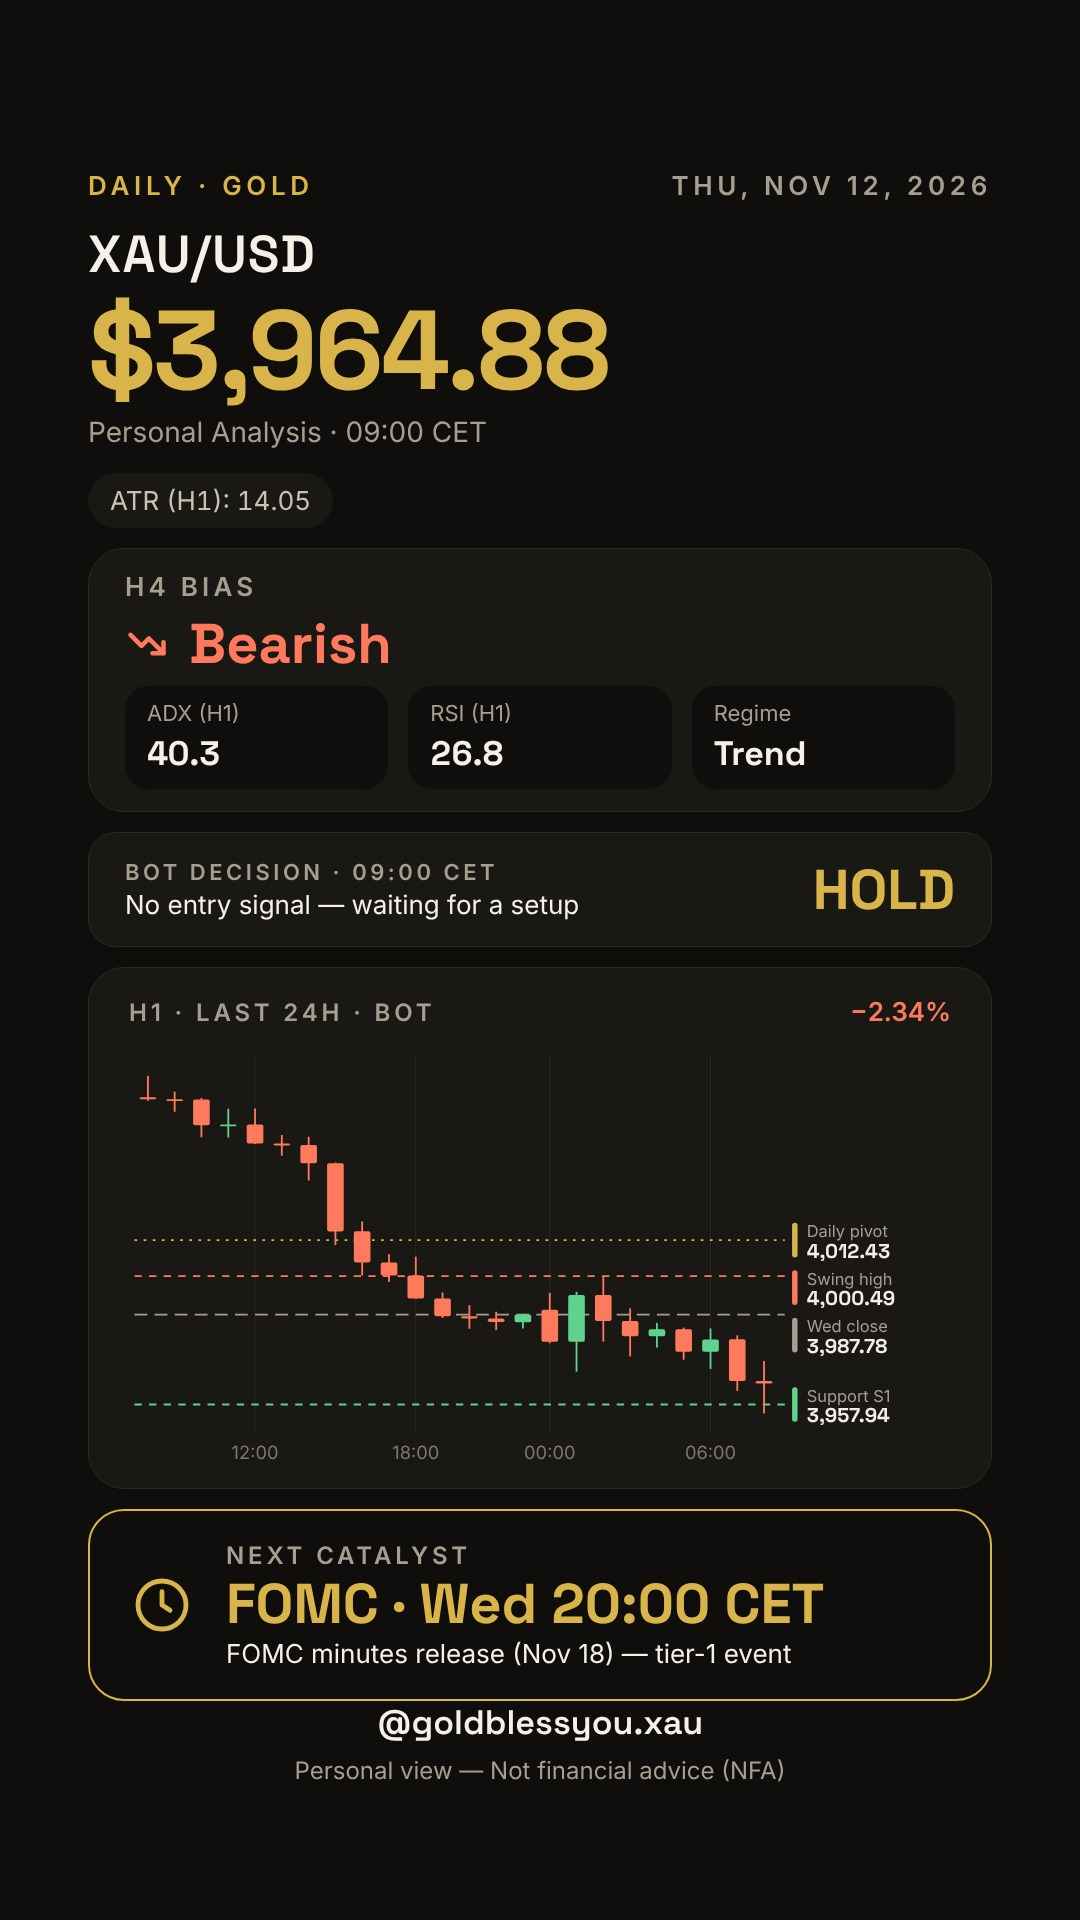
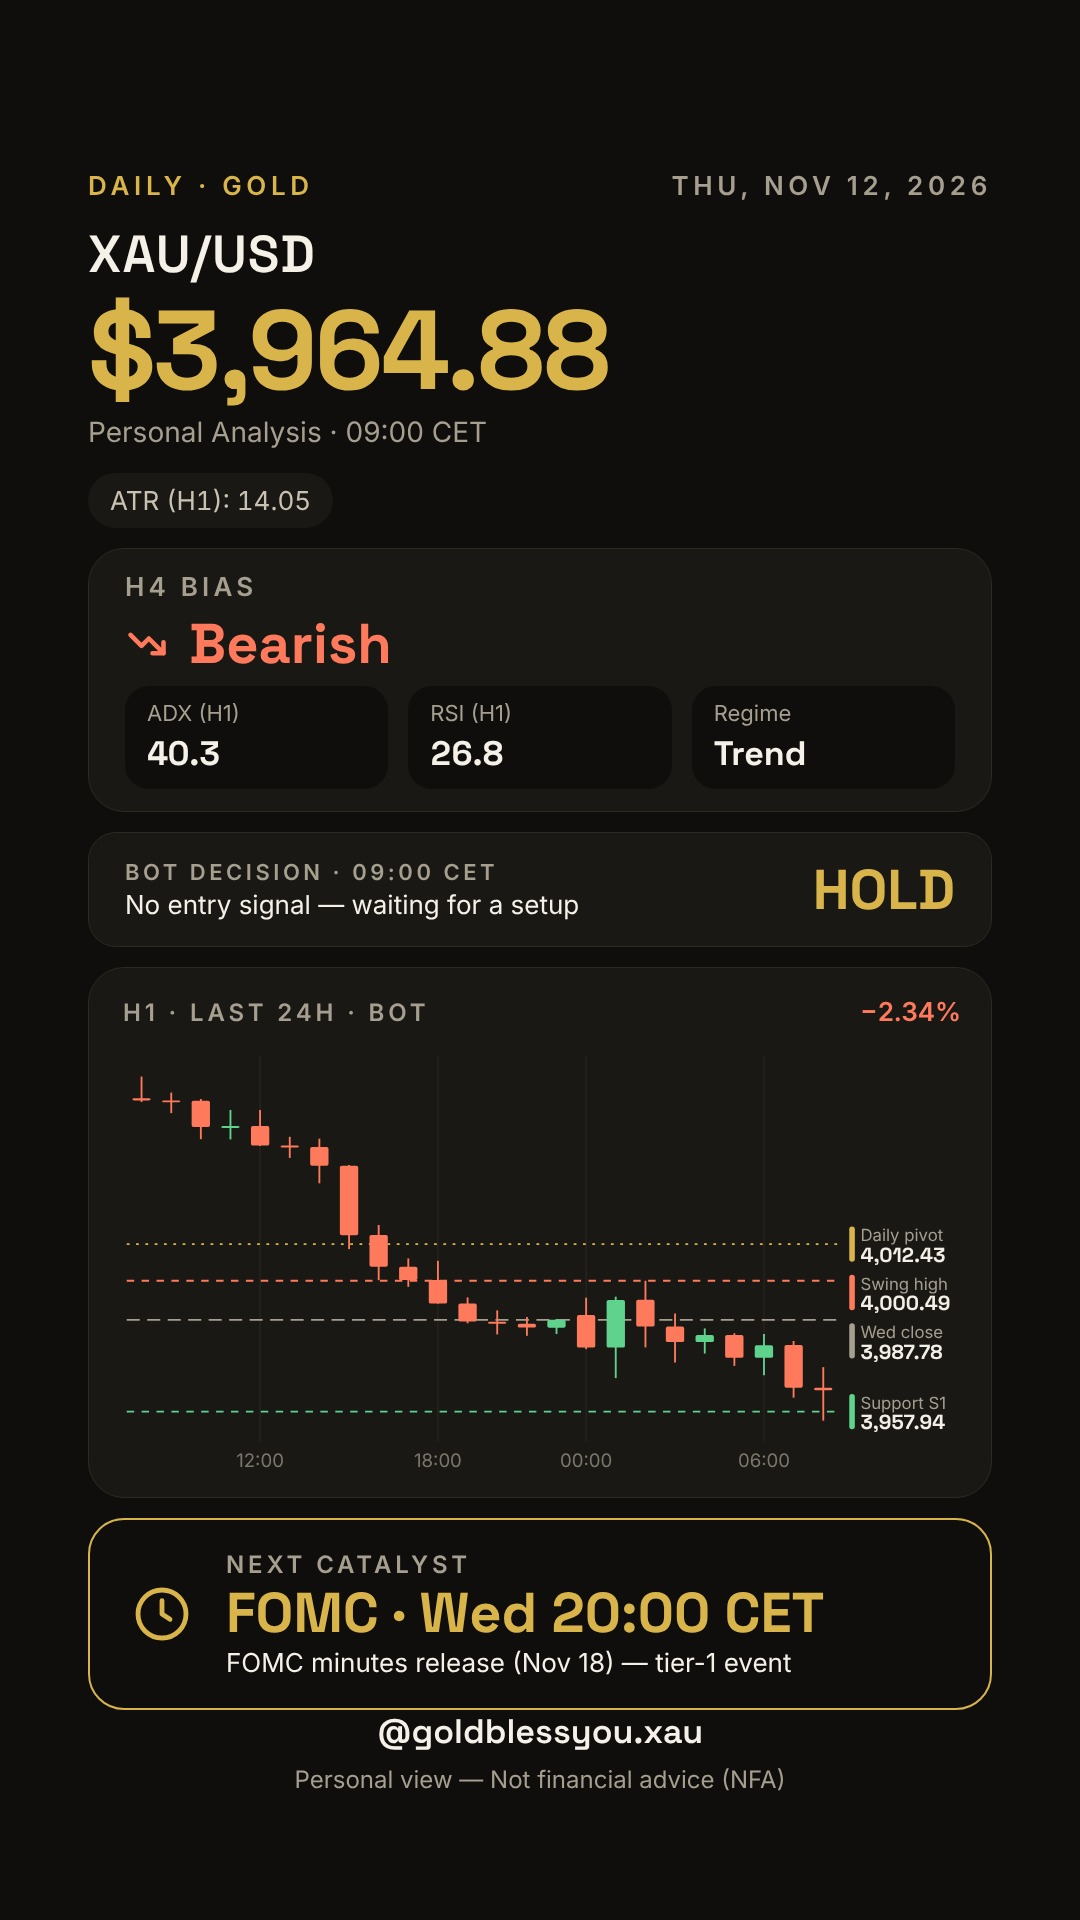
Daily story: wider H1 chart in its frame
Claude-Session: https://claude.ai/code/session_013pLfN9NZ11vsKJBzf87S8n

diff --git a/tools/render_daily.py b/tools/render_daily.py
@@ -113,7 +113,7 @@ def build_chart(candles, levels, prev_close):
               (prev_close or {}).get("value"), "#A69F90", "14 8"),
              (src("Support", "key_support_src"), first(levels, "key_support", "support"), BULL, "8 8")]
     lines = [x for x in lines if x[1] is not None]
-    W, H, L, R, T, B = 900, 470, 6, 190, 16, 40
+    W, H, L, R, T, B = 900, 470, 4, 132, 16, 40
     vals = [c["h"] for c in cs] + [c["l"] for c in cs] + [v for _, v, _, _ in lines]
     lo, hi = min(vals), max(vals)
     pad = (hi - lo) * 0.06 or 1
@@ -135,10 +135,10 @@ def build_chart(candles, levels, prev_close):
             if abs(ly - u) < 52:
                 ly = u + 52
         used.append(ly)
-        svg.append(f'<line x1="{L}" y1="{y:.1f}" x2="{W-R+8}" y2="{y:.1f}" stroke="{col}" stroke-width="2" stroke-dasharray="{dash}"/>')
-        svg.append(f'<rect x="{W-R+16}" y="{ly-19:.1f}" width="6" height="38" rx="3" fill="{col}"/>')
-        svg.append(f'<text x="{W-R+32}" y="{ly-3:.1f}" fill="#A69F90" font-size="18">{html.escape(name)}</text>')
-        svg.append(f'<text x="{W-R+32}" y="{ly+19:.1f}" fill="#F4EFE6" font-size="22" font-weight="700" '
+        svg.append(f'<line x1="{L}" y1="{y:.1f}" x2="{W-R+4}" y2="{y:.1f}" stroke="{col}" stroke-width="2" stroke-dasharray="{dash}"/>')
+        svg.append(f'<rect x="{W-R+12}" y="{ly-19:.1f}" width="6" height="38" rx="3" fill="{col}"/>')
+        svg.append(f'<text x="{W-R+24}" y="{ly-3:.1f}" fill="#A69F90" font-size="18">{html.escape(name)}</text>')
+        svg.append(f'<text x="{W-R+24}" y="{ly+19:.1f}" fill="#F4EFE6" font-size="22" font-weight="700" '
                    f'font-family="Space Grotesk, sans-serif">{v:,.2f}</text>')
     bw = step * 0.62
     for i, c in enumerate(cs):
@@ -149,7 +149,7 @@ def build_chart(candles, levels, prev_close):
         svg.append(f'<rect x="{x-bw/2:.1f}" y="{top:.1f}" width="{bw:.1f}" height="{max(bot-top, 2):.1f}" rx="2" fill="{col}"/>')
     svg.append("</svg>")
     chg = (cs[-1]["c"] - cs[0]["o"]) / cs[0]["o"] * 100
-    return (f'<div style="background:#1A1815;border:1px solid #2E2A22;border-radius:36px;padding:28px 40px 18px;'
+    return (f'<div style="background:#1A1815;border:1px solid #2E2A22;border-radius:36px;padding:28px 30px 18px 34px;'
             f'display:flex;flex-direction:column;gap:14px"><div style="display:flex;justify-content:space-between;align-items:baseline">'
             f'<span style="font-size:24px;letter-spacing:.16em;text-transform:uppercase;color:#A69F90;font-weight:600">'
             f'H1 · last {n}h · bot</span><span style="font-size:26px;font-weight:700;color:{BULL if chg >= 0 else BEAR};'
